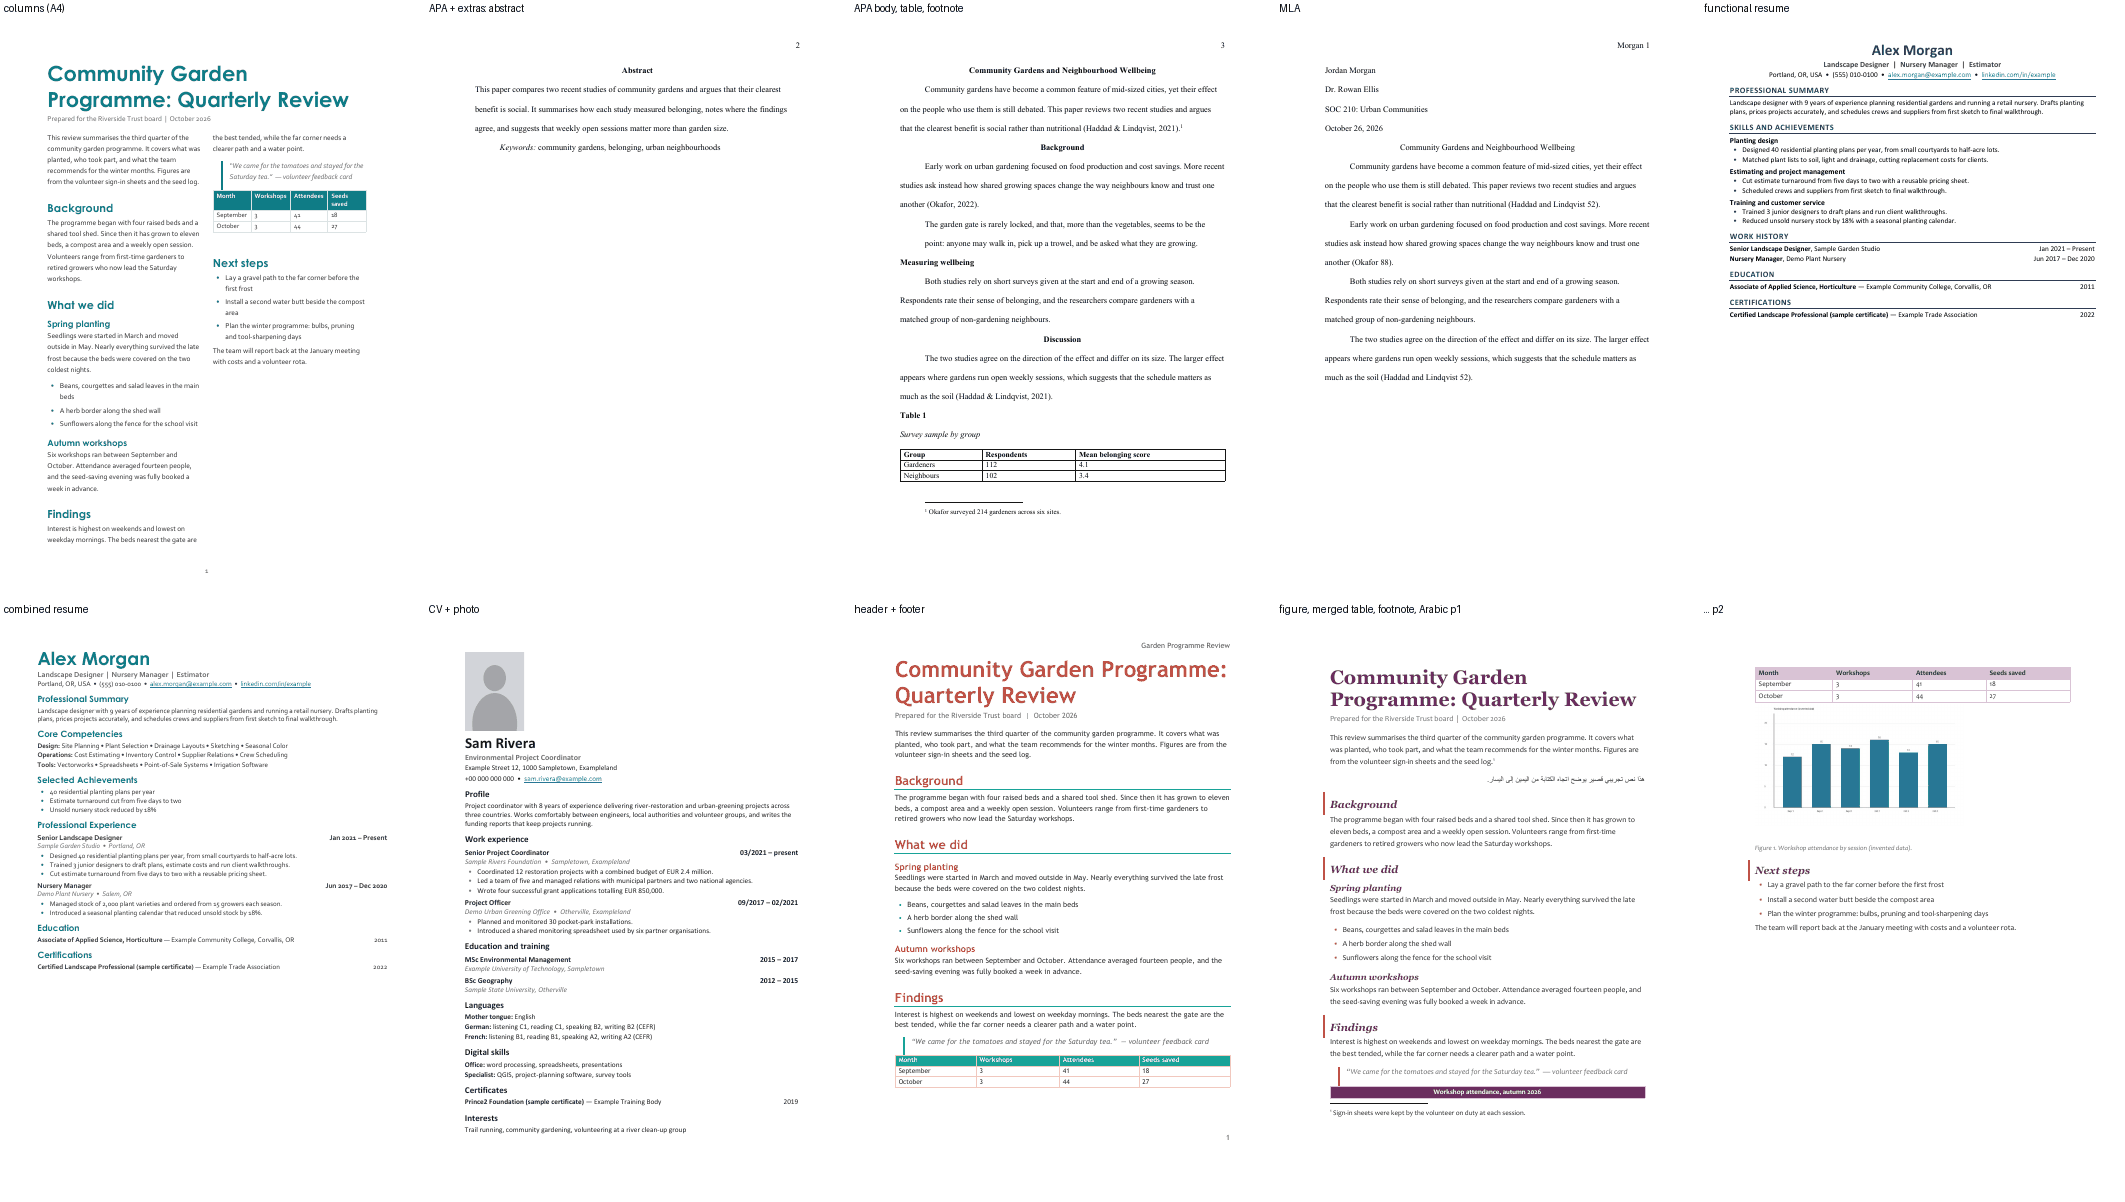
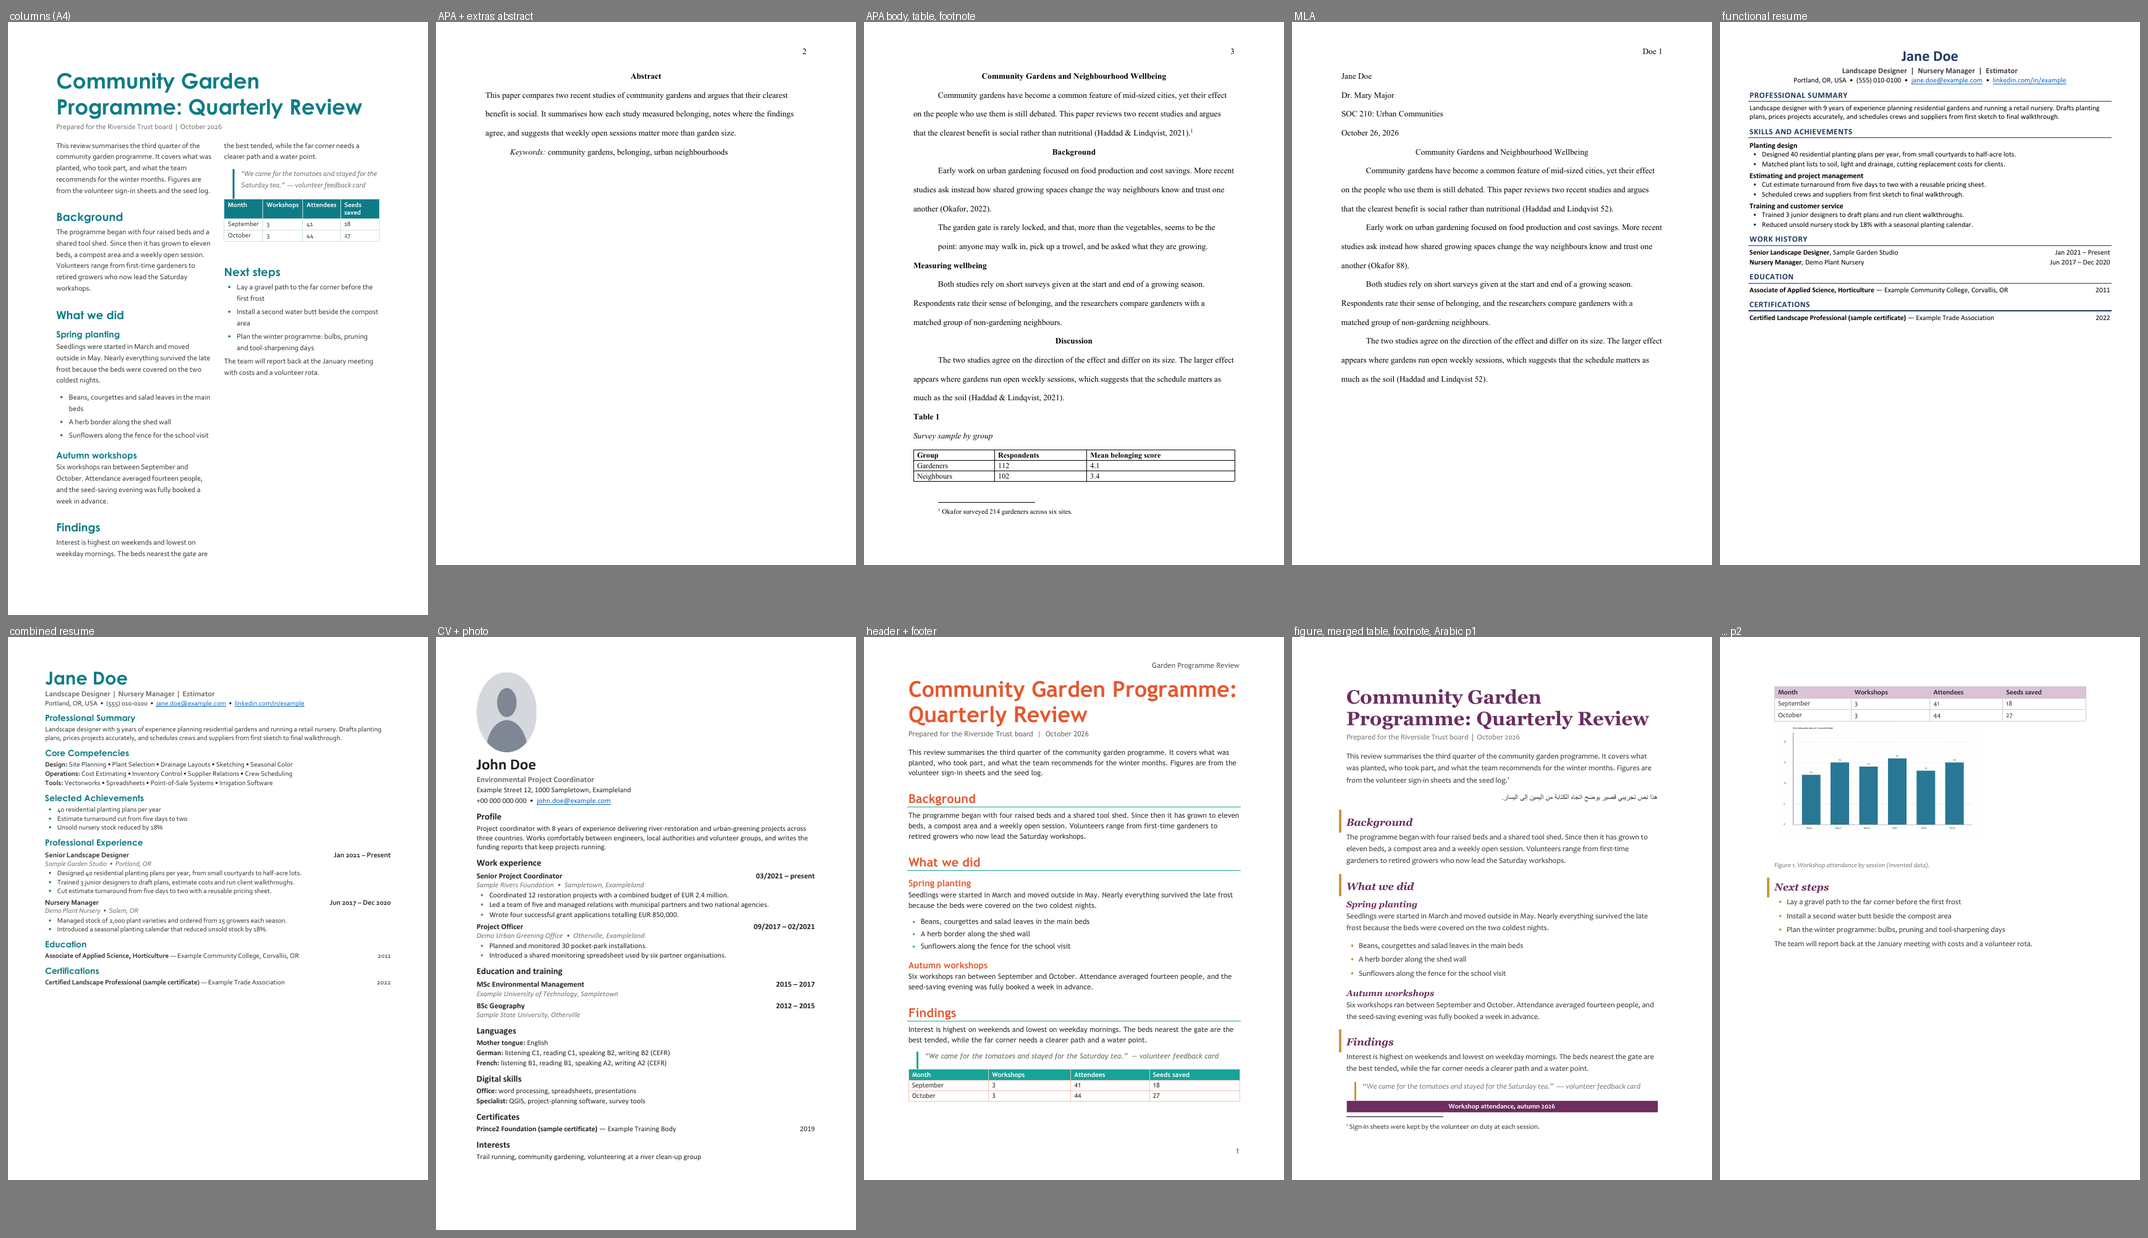
styles: CV and feature previews regenerated; sample names Jane Doe / John Doe in the CV and MLA paper

Changed region(s): [[0.0, 0.0, 1.0, 1.0]]

diff --git a/styles/content.py b/styles/content.py
@@ -58,11 +58,11 @@ RESUME = {
 }
 
 CV = {
-    "name": "Sam Rivera",
+    "name": "John Doe",
     "headline": "Environmental Project Coordinator",
     "address": "Example Street 12, 1000 Sampletown, Exampleland",
     "phone": "+00 000 000 000",
-    "email": "sam.rivera@example.com",
+    "email": "john.doe@example.com",
     "profile": ("Project coordinator with 8 years of experience delivering river-restoration and urban-greening projects across "
                 "three countries. Works comfortably between engineers, local authorities and volunteer groups, and writes the "
                 "funding reports that keep projects running."),
@@ -100,8 +100,8 @@ RESUME_EXTRA = {
 # Invented student paper. The sources are fictional; replace them with real ones.
 PAPER = {
     "title": "Community Gardens and Neighbourhood Wellbeing",
-    "author": "Jordan Morgan", "surname": "Morgan", "affiliation": "Example University",
-    "course": "SOC 210: Urban Communities", "instructor": "Dr. Rowan Ellis", "date": "October 26, 2026",
+    "author": "Jane Doe", "surname": "Doe", "affiliation": "Example University",
+    "course": "SOC 210: Urban Communities", "instructor": "Dr. Mary Major", "date": "October 26, 2026",
     "body": [
         ("p", "Community gardens have become a common feature of mid-sized cities, yet their effect on the people who use them is still debated. "
               "This paper reviews two recent studies and argues that the clearest benefit is social rather than nutritional {c1}."),

diff --git a/wordcraft/SKILL.md b/wordcraft/SKILL.md
@@ -260,7 +260,7 @@ ATS notes and options. Verified: every style in 3 kinds plus the feature samples
 - **`para.set {"props":{"numbering":{"level":0,"num":0}}}` also wipes the style's indents** (first-line and hanging indents vanished on every paragraph). Only set numbering on bullet paragraphs and on the first paragraph after a list.
 - **A new paragraph inherits the previous paragraph's DIRECT properties** (a one-off `spaceBefore` 96 leaked onto every later paragraph). Set `spaceBefore`/`pageBreakBefore` explicitly on each paragraph.
 - Page break before a paragraph: `para.set {"props":{"pageBreakBefore":true}}`. `insert.pageBreak` stays inside the same paragraph, so the next heading text lands in it.
-- Header with text plus page number: `insert.header {"text":"Morgan "}` → `caret.end` → `insert.pageField` → `para.set {"props":{"align":"right"}}` → `insert.closeHeader` (without `caret.end` the number comes first). Page number only: `insert.pageNumber {"position":"top","align":"right"}` or `"bottom"`. Style them with `styles.modify {"style":"Header"|"Footer",…}`.
+- Header with text plus page number: `insert.header {"text":"Doe "}` → `caret.end` → `insert.pageField` → `para.set {"props":{"align":"right"}}` → `insert.closeHeader` (without `caret.end` the number comes first). Page number only: `insert.pageNumber {"position":"top","align":"right"}` or `"bottom"`. Style them with `styles.modify {"style":"Header"|"Footer",…}`.
 - Two columns after the title: `text.newParagraph` → `layout.columns {"count":2,"space":24,"separator":true,"apply":"forward"}`; the rest of the document continues in columns.
 - Tables: `insert.table {"rows","cols","style":"Table Grid"}`, per cell `para.style` + `text.insert` + `caret.right`; then `caret.up` to the header row, `table.selectRow`, `table.shading {"color"}`, `format.set {"props":{"bold":true,"color"}}`, `table.repeatHeader`, `table.borders {"color","width":0.5}`.
   `table.borders` applies to the **whole table** and ignores `preset`/`style:none` (unknown parameter names are silently ignored); a borderless start is table style `"Normal Table"`. Then `caret.docEnd` leaves the table.
